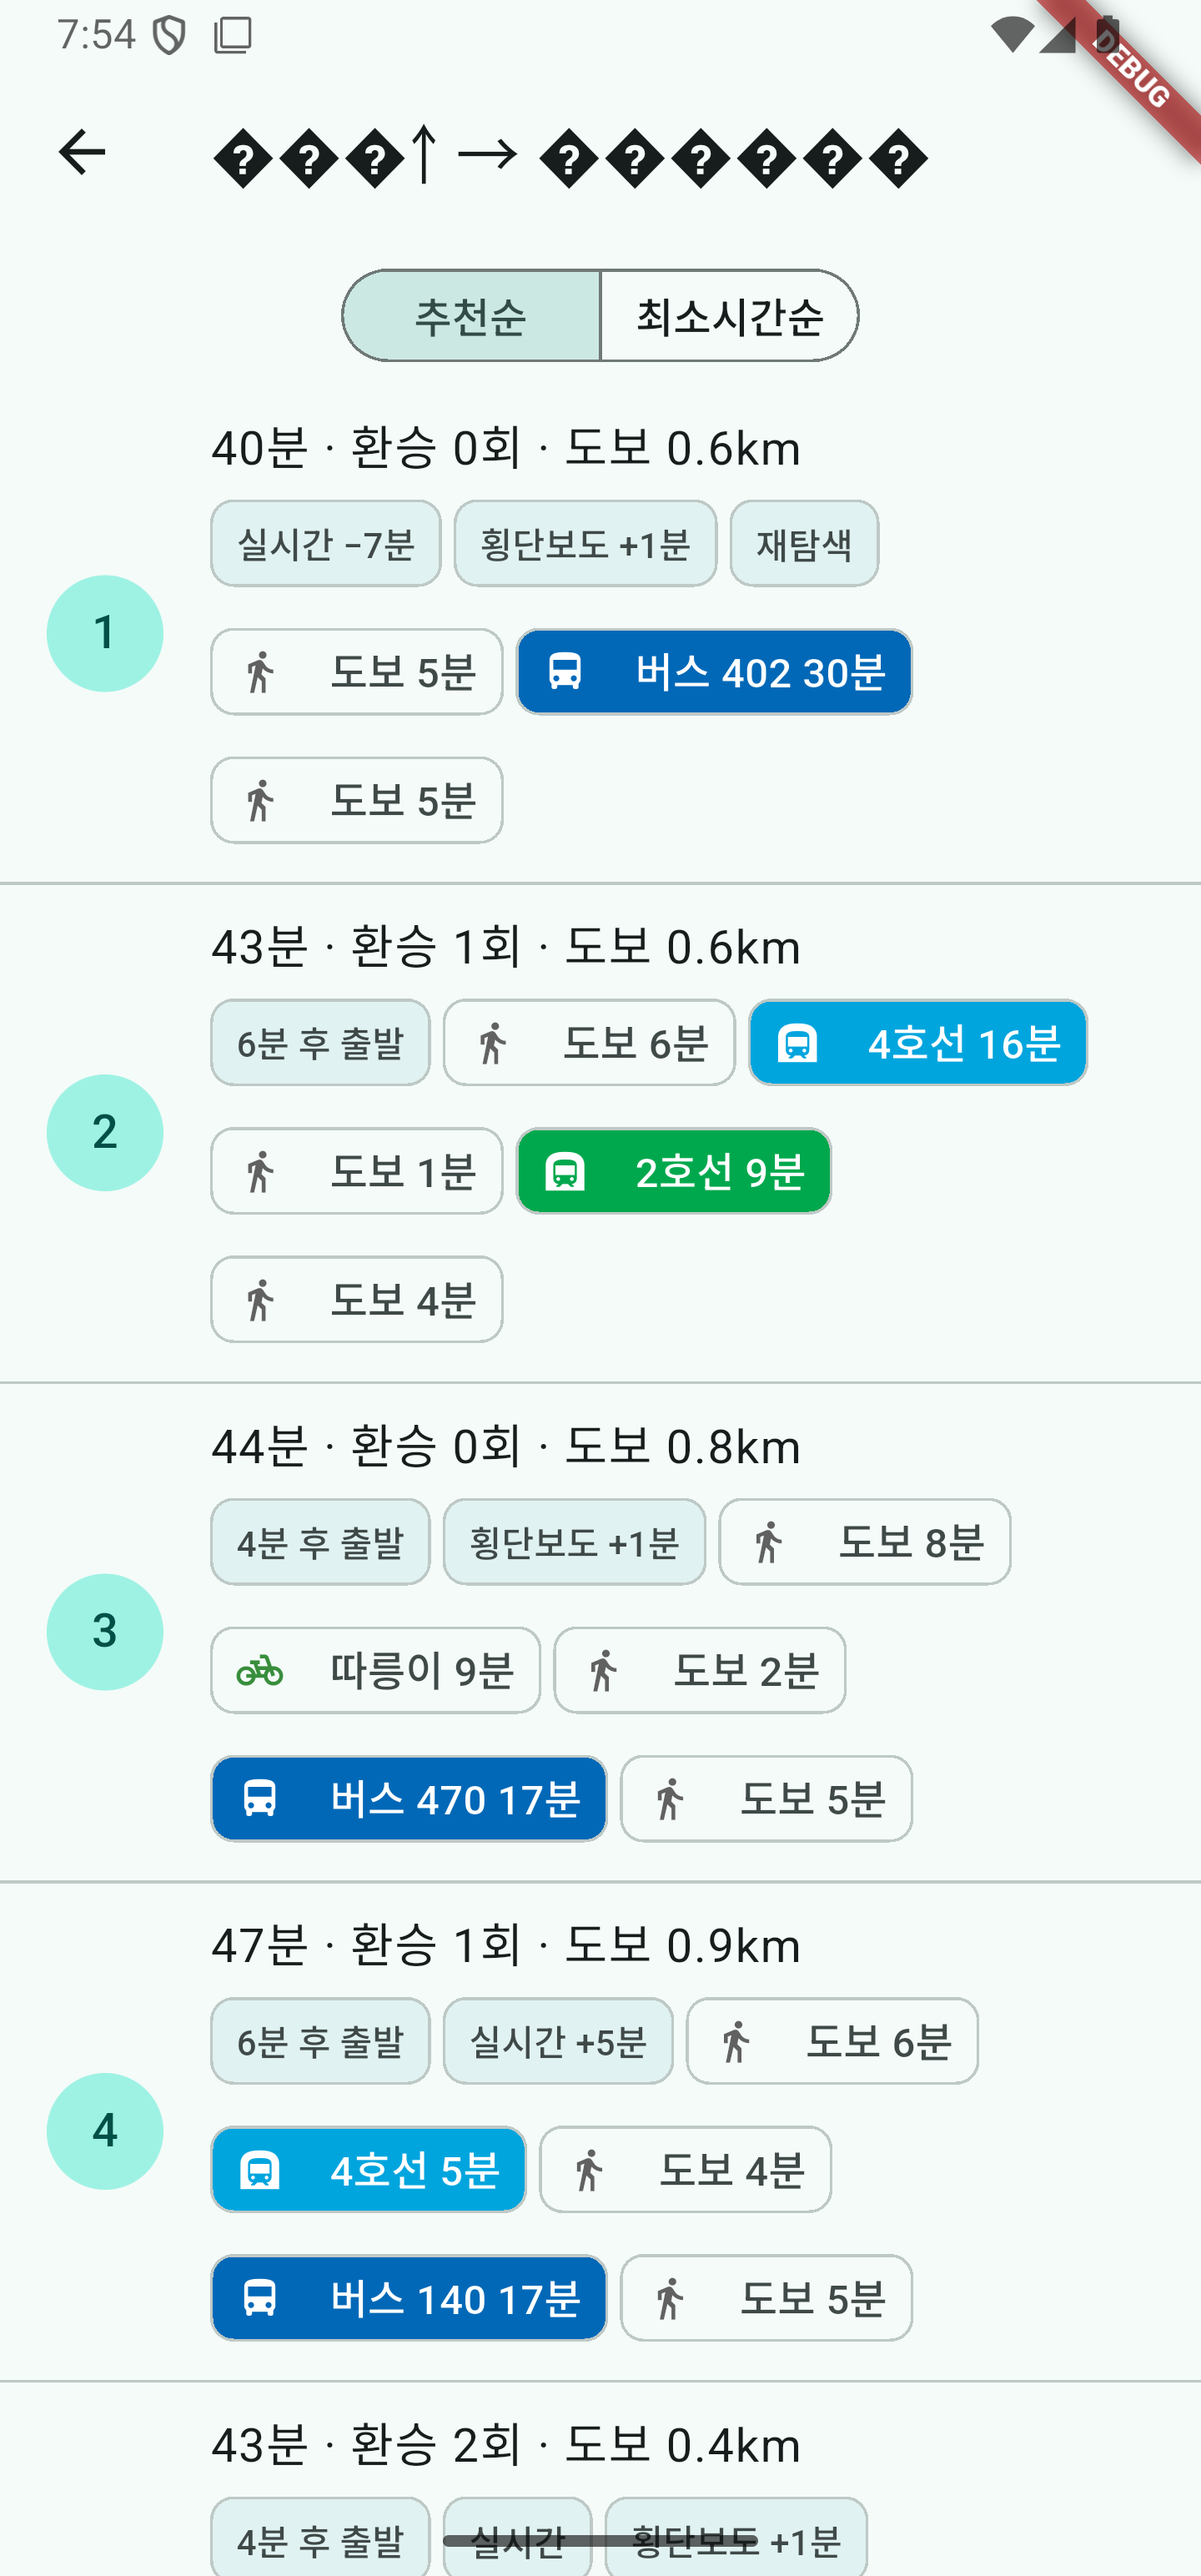
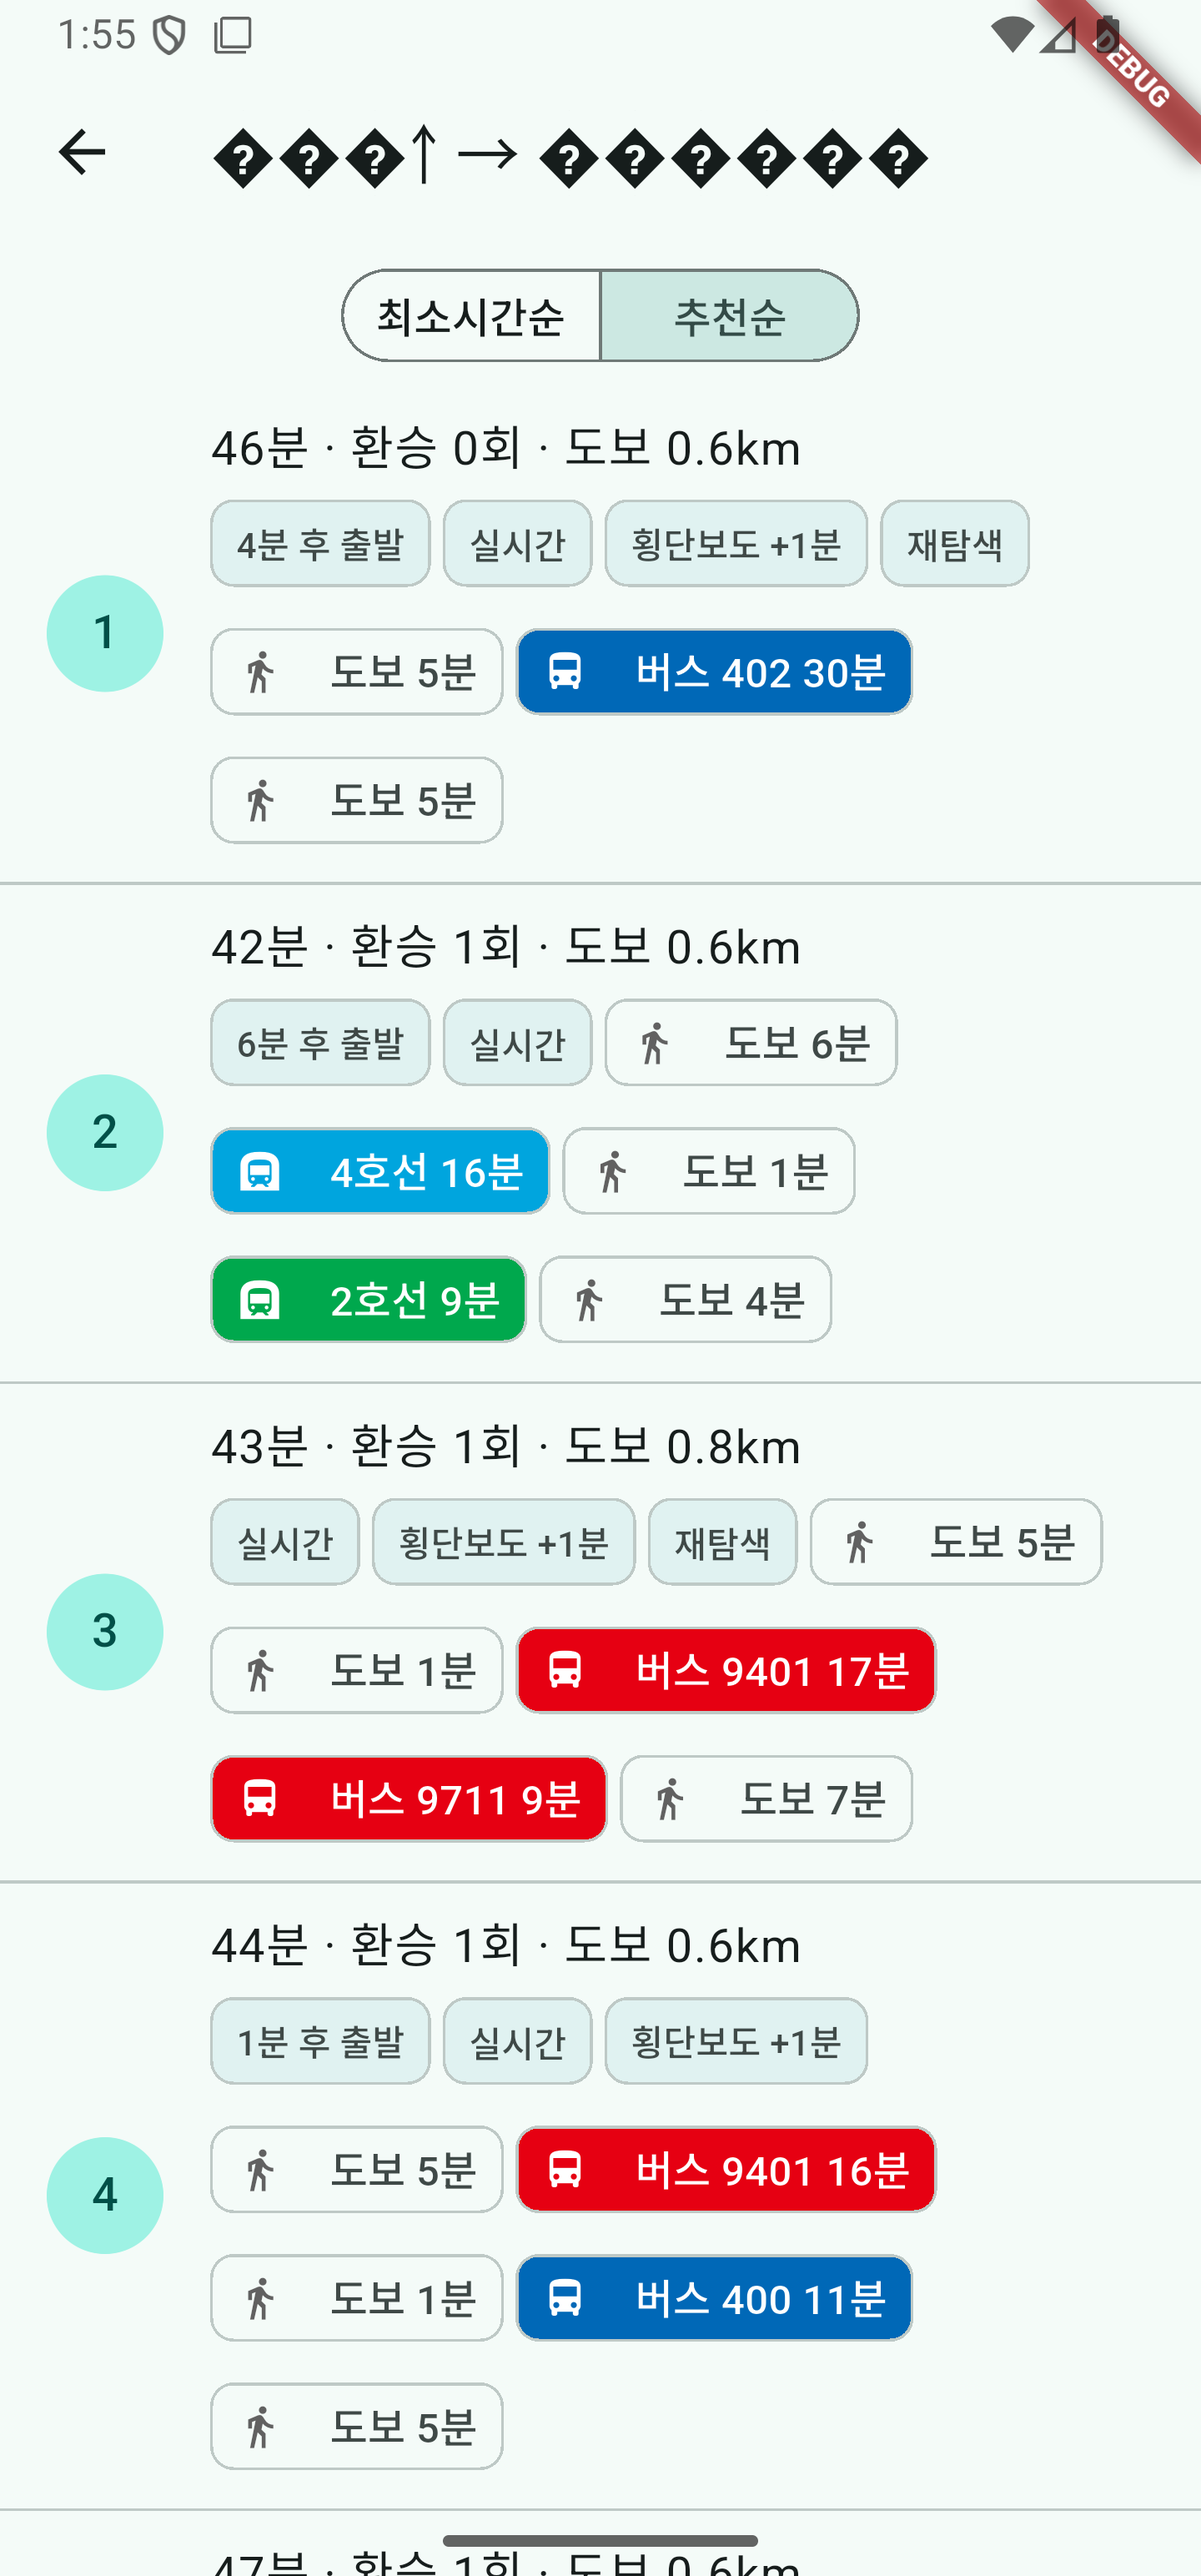
feat: 경로 결과 목록을 최소시간순으로 먼저 보여 준다 (#137) (#138)
- 결과 화면 기본 정렬을 최소시간순으로, 전환 버튼도 최소시간순을 앞에 둔다
- 추천순(환승·대여 가산 점수)은 버튼으로 계속 볼 수 있다

diff --git a/app/test/result_sort_test.dart b/app/test/result_sort_test.dart
@@ -58,7 +58,7 @@ void main() {
     }
   });
 
-  testWidgets('결과 화면 전환 버튼으로 최소시간순과 추천순을 오간다', (tester) async {
+  testWidgets('결과 화면은 최소시간순으로 열리고, 전환 버튼으로 추천순과 오간다', (tester) async {
     const p = Place(name: 'A', address: '', lat: 37.5, lon: 127.0);
     await tester.pumpWidget(MaterialApp(
       home: ResultsScreen(
@@ -71,13 +71,13 @@ void main() {
           for (final t in tester.widgetList<ListTile>(find.byType(ListTile))) (t.title as Text).data!.split(' ').first
         ];
 
-    expect(titles(), ['66분', '62분', '60분', '62분']);
-    await tester.tap(find.text('최소시간순'));
-    await tester.pump();
     expect(titles(), ['60분', '62분', '62분', '66분']);
     await tester.tap(find.text('추천순'));
     await tester.pump();
     expect(titles(), ['66분', '62분', '60분', '62분']);
+    await tester.tap(find.text('최소시간순'));
+    await tester.pump();
+    expect(titles(), ['60분', '62분', '62분', '66분']);
   });
 
   testWidgets('경로가 없으면 전환 버튼을 보이지 않는다', (tester) async {

diff --git a/app/lib/screens/results_screen.dart b/app/lib/screens/results_screen.dart
@@ -8,7 +8,7 @@ import '../widgets/mode_icon.dart';
 import '../util/stay_label.dart';
 import 'detail_screen.dart';
 
-/// 경로 후보 목록. 처음에는 서버 순서(추천순)로 보여 주고, 위의 전환으로 최소시간순으로 바꿔 볼 수 있다.
+/// 경로 후보 목록. 처음에는 최소시간순으로 보여 주고, 위의 전환으로 서버 순서(추천순)로 바꿔 볼 수 있다.
 class ResultsScreen extends StatefulWidget {
   const ResultsScreen({super.key, required this.api, required this.request, required this.result});
 
@@ -21,7 +21,7 @@ class ResultsScreen extends StatefulWidget {
 }
 
 class _ResultsScreenState extends State<ResultsScreen> {
-  ResultSort _sort = ResultSort.recommended;
+  ResultSort _sort = ResultSort.fastest;
 
   @override
   Widget build(BuildContext context) {

diff --git a/app/lib/models/result_sort.dart b/app/lib/models/result_sort.dart
@@ -1,10 +1,10 @@
 import 'itinerary.dart';
 
-/// 경로 목록 정렬 기준. 추천순은 서버 순서(출발 대기 + 소요 + 환승 1회당 240초 + 따릉이 대여가 있으면 300초 점수,
-/// backend route/ranking.go), 최소시간순은 화면에 보이는 분([Itinerary.minutes]) 오름차순.
+/// 경로 목록 정렬 기준. 최소시간순은 화면에 보이는 분([Itinerary.minutes]) 오름차순, 추천순은 서버 순서(출발 대기 + 소요
+/// + 환승 1회당 240초 + 따릉이 대여가 있으면 300초 점수, backend route/ranking.go). 전환 버튼은 이 순서로 놓인다.
 enum ResultSort {
-  recommended('추천순'),
-  fastest('최소시간순');
+  fastest('최소시간순'),
+  recommended('추천순');
 
   const ResultSort(this.label);
   final String label;

diff --git a/README.md b/README.md
@@ -21,7 +21,7 @@ docs/      모델 근거, 운영 절차, 정확도 평가
 
 - 대중교통·따릉이·도보 경로, 경유지 최대 5개(경유지별 체류 시간), 구간별 수단 고정
 - 따릉이 이용권(1시간권·2시간권) 한도를 넘는 대여는 중간 대여소 반납 후 재대여로 탐색
-- 출발 대기와 환승·대여 비용을 포함한 후보 정렬, 결과 화면에서 최소시간순 전환
+- 결과 목록은 최소시간순, 전환하면 출발 대기와 환승·대여 비용을 포함한 추천순
 - 서울 버스·지하철 첫 탑승 실시간 도착 보정
 - 버스 배차, 지하철 앞뒤 열차, 따릉이 잔여 대수 표시
 - 신호 횡단보도 기대 대기와 탑승 실패 시 재탐색
